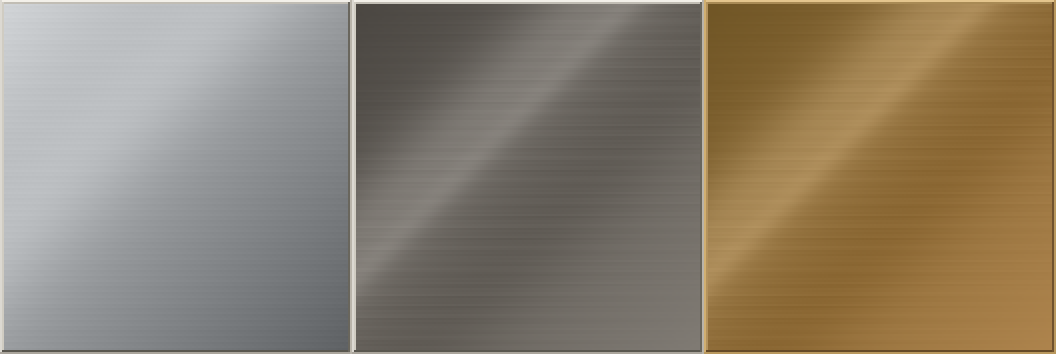
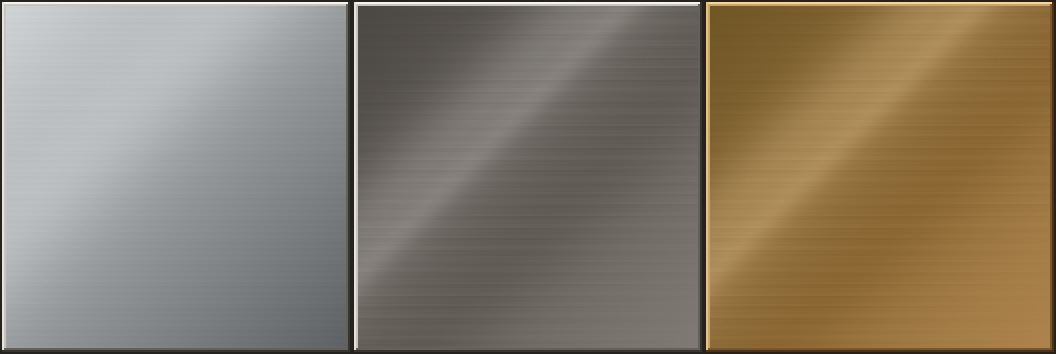
fix(gui): give metal bevels vanilla-style depth and shadows

Changed region(s): [[0.0, 0.0, 1.0, 1.0]]

diff --git a/devtools/MetalBevelProbe.java b/devtools/MetalBevelProbe.java
@@ -32,7 +32,12 @@ public final class MetalBevelProbe {
                     colors[edge]=MetalBevel.color(material,layer,edge);
                     check(colors[edge]>>>24==255,"fully opaque bevel");
                 }
-                check(brightness(colors[0])>brightness(colors[2]),"raised highlight above bottom shadow");
+                if (layer == 0) {
+                    check(colors[0] == colors[1] && colors[1] == colors[2] && colors[2] == colors[3], "continuous dark outer outline");
+                } else {
+                    check(brightness(colors[0])-brightness(colors[2])>200, "strong top highlight / bottom shadow contrast");
+                    check(brightness(colors[1])-brightness(colors[3])>200, "strong left highlight / right shadow contrast");
+                }
                 graphics.setColor(new Color(colors[0],true)); graphics.fillRect(l,t,r-l,1);
                 graphics.setColor(new Color(colors[1],true)); graphics.fillRect(l,t,1,b-t);
                 graphics.setColor(new Color(colors[2],true)); graphics.fillRect(l,b-1,r-l,1);
@@ -40,13 +45,20 @@ public final class MetalBevelProbe {
             }
             graphics.dispose();
             check(image.getRGB(88,88)==center,"interior unchanged");
-            check(image.getRGB(88,0)==MetalBevel.color(material,0,MetalBevel.TOP),"outer highlight");
-            check(image.getRGB(88,175)==MetalBevel.color(material,1,MetalBevel.BOTTOM),"inner bottom shadow");
+            check(MetalBevel.DEPTH == 3, "three-pixel vanilla-style bevel");
+            check(brightness(image.getRGB(88,0)) < brightness(image.getRGB(88,174)), "outline darker than inner shadow");
+            for (int layer=0; layer<MetalBevel.DEPTH; layer++) {
+                check(image.getRGB(88,layer)==MetalBevel.color(material,layer,MetalBevel.TOP),"top edge");
+                check(image.getRGB(layer,88)==MetalBevel.color(material,layer,MetalBevel.LEFT),"left edge");
+                check(image.getRGB(88,176-layer)==MetalBevel.color(material,layer,MetalBevel.BOTTOM),"bottom edge");
+                check(image.getRGB(175-layer,88)==MetalBevel.color(material,layer,MetalBevel.RIGHT),"right edge");
+            }
             out.drawImage(image,column++*352,0,352,354,null);
         }
         out.dispose();
         Files.createDirectories(Path.of("build"));
         ImageIO.write(preview,"png",Path.of("build/metal-bevel-preview.png").toFile());
+        if (args.length > 0) ImageIO.write(preview,"png",Path.of(args[0]).toFile());
         System.out.println("PASS: three opaque raised-metal bevels, highlights/shadows, unchanged interiors and unframed bricks.");
     }
 }

diff --git a/src/main/java/c_y/meknh_core/common/gui/render/MetalBevel.java b/src/main/java/c_y/meknh_core/common/gui/render/MetalBevel.java
@@ -2,15 +2,18 @@ package c_y.meknh_core.common.gui.render;
 
 /** Opaque raised-metal edge palette: top, left, bottom, right, from outside inward. */
 public final class MetalBevel {
-    public static final int DEPTH = 2;
+    public static final int DEPTH = 3;
     public static final int TOP = 0, LEFT = 1, BOTTOM = 2, RIGHT = 3;
+    // Minecraft-style raised panel: dark outer keyline, lit bevel, then an inner shadow lip.
     private static final int[][] NEUTRAL = {
-            {0xFFF3F0E9, 0xFFDCD9D2, 0xFFAAA59C, 0xFFB9B4AA},
-            {0xFFC1BDB4, 0xFFD0CCC2, 0xFF59574F, 0xFF69665D}
+            {0xFF242320, 0xFF242320, 0xFF242320, 0xFF242320},
+            {0xFFF7F4ED, 0xFFE5E2DA, 0xFF37352F, 0xFF37352F},
+            {0xFFC9C5BC, 0xFFC9C5BC, 0xFF656157, 0xFF656157}
     };
     private static final int[][] BRONZE = {
-            {0xFFE4C58D, 0xFFD1AF70, 0xFFB9985E, 0xFFB9985E},
-            {0xFFA88A55, 0xFFB3935E, 0xFF654A28, 0xFF70522E}
+            {0xFF2A2013, 0xFF2A2013, 0xFF2A2013, 0xFF2A2013},
+            {0xFFF3D69D, 0xFFE3C287, 0xFF49331B, 0xFF49331B},
+            {0xFFC8A56A, 0xFFC8A56A, 0xFF775631, 0xFF775631}
     };
 
     private MetalBevel() { }
